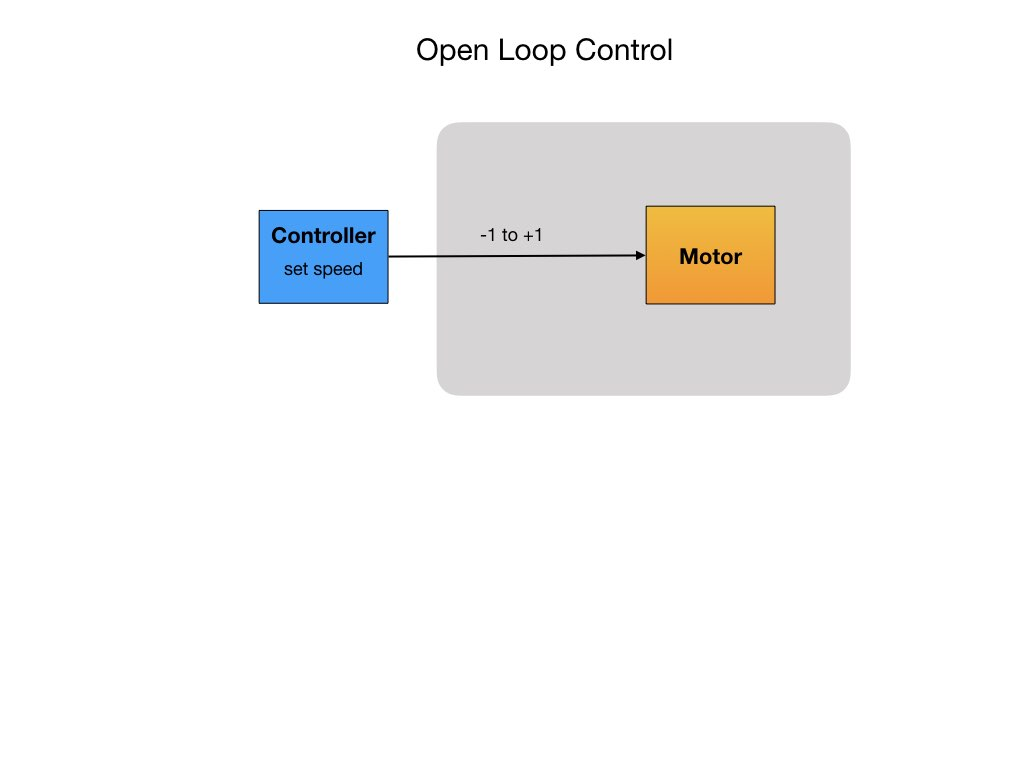
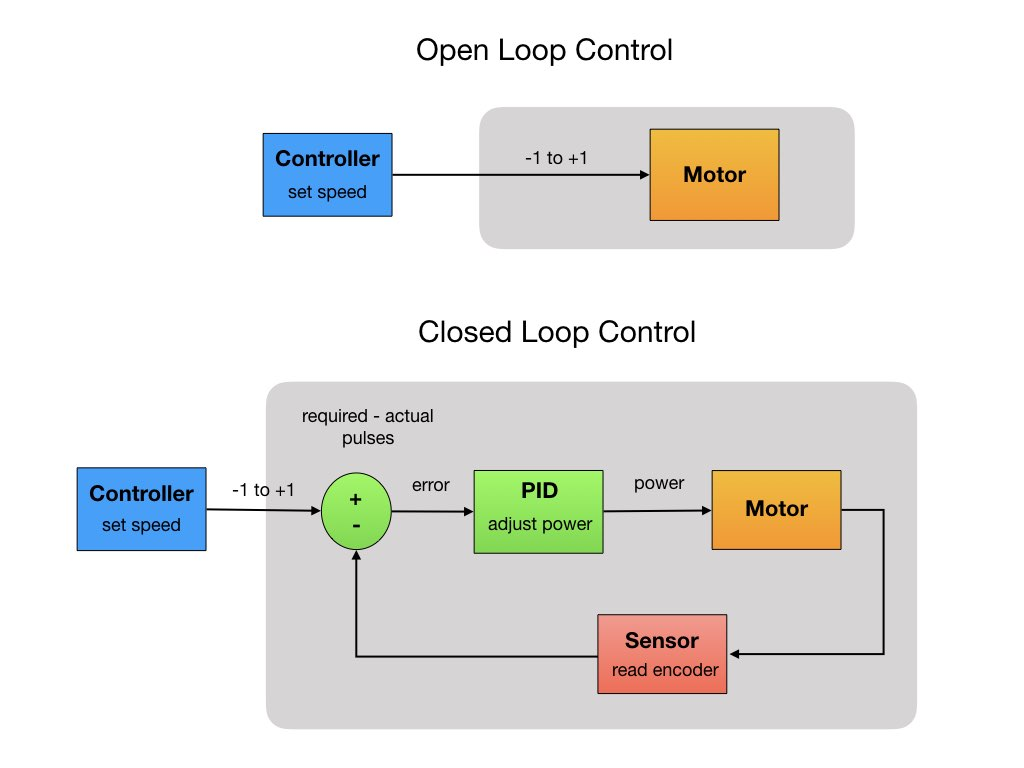
Worked on lesson 4

diff --git a/Tools/code4.md b/Tools/code4.md
@@ -1,17 +1,25 @@
 # <a name="code"></a>Lesson 4 - Open Loop Velocity Control
-Up to this point we have been using PWM signals to directly power the motors. To simplify our motion control commands it would be better to send a signal between -1 and +1, where -1 is full speed backwards and +1 is full speed forward. This gives us a smooth transition of speed values which are easy to understand and hides the messy details of the PWM signals. 
+Up to this point we have been using PWM signals to directly power the motors. To simplify our motion control commands it would be better to send a velocity value between -1 and +1, where -1 is full speed backwards and +1 is full speed forward. This gives us a smooth transition of velocity values which are easy to understand and hides the messy details of the PWM signals. 
 
-Another lesson objective is to begin to understand <i>Control Systems Theory</i>.  Control systems are used extensively in robotics.
+Another lesson objective is to begin to understand <i>Control Systems</i>.  Control systems are used extensively in robotics.
 
-## Open Loop Control
+## Open Loop vs Closed Loop Control
+There are two main control system mechanisms, <i>Open Loop</i> and <i>Closed Loop</i>.  For an open loop system you just set an input control signal and let it go. There's no adjustment along the way. The system doesn't self correct itself.  The only way to change the signal is through manual input. This is the system that we've been using so far to control our robot. We set a PWM value for the motor and that same PWM value remains until the system times out.  We'll continue to use the open loop system in this lesson.  
 
-Talk about open loop..
+An <i>Open Loop</i> verses <i>Closed Loop</i> system is shown below.  The closed loop system takes input from it's sensors and uses that information to adjust the control signal to the motor.  In the next lesson we'll switch to a closed loop system. 
 
-Open loop diagram...
+![Open Loop Control](../images/FRCRobot/FRCRobot.010.jpeg)
 
-## Wheel Speed Proportional Values
+## Wheel Velocity Proportional Values
+So instead of sending a PWM signal to the motors we just want to send a value between -1 (backward) to +1 (forward). From the perspective of the controller that will look like this:
 
-wheel speeds need to float values...
+![Lesson 4 Controller](../images/FRCRobot/FRCRobot.012.jpeg)
+
+As you can see, we no longer need the <i>Backward</i> buttons since we can set the speed to a negative value. In fact, we need fewer and fewer buttons for each lesson.  Why is this important?  We have reduced our control input to a single velocity command <i>Move</i>, and we can get the robot to go wherever we want by feeding it a continuous stream of these velocity command values for each wheel. 
+
+The <i>DCMotor</i> model is very similar to that of lesson 3.  The difference is that we pass in the velocity value instead of the PWM. The motor still wants PWM signals so the velocity value has to be converted to a PWM value, this is done in the `setSpeed()` function. There is one thing that needs to be taken into consideration while doing the conversion however, and that is explained in the next section on drivetrain characterization.
+
+![DCMotor](../images/FRCRobot/FRCRobot.015.jpeg)
 
 ## Drivetrain Charaterization
 

diff --git a/Tools/code3.md b/Tools/code3.md
@@ -18,8 +18,6 @@ The first parameter is the GPIO pin that the will detect the interrupt.  This is
 
 The main thing to consider when coding an ISR is to keep the routine short.  The routine code block must complete before the next interrupt fires.  This means that you cannot have a `delay()` in the routine since that will most likely still be active when the next interrupt fires.  Another piece of code that takes a long time to run is a serial print.  Serial prints need to write out to the terminal which takes a long time.    
 
-A detailed explaination of interrupts can be found on [Nick Gammons] site (http://gammon.com.au/interrupts)
-
 The following diagram of the <i>Encoder</i> class shows the encoder IR sensor attached via the GPIO pin to the ISR.  The ISR calls the code block `encoderFired()` to be executed. This code block increments or decrements the `pulses` variable.  The `pulses` variable is declared as `volatile` since it is referenced outside of the ISR and may be changed during the course of an interrupt. This tells the compiler that such variables might change at any time, and thus the compiler must reload the variable whenever you reference it, rather than relying upon a copy it might have in a processor register.
 
 Interrupt service routines must be declared to be executed in instruction RAM (IRAM). The execution of a function called by an interrupt is blocking, meaning that it is necessary to wait for the end of its execution before any other code can continue.  Usually the code is executed directly in the flash memory of the microcontroller. It is possible to move the function to the internal RAM of the ESP32 which is much faster. This is done by placing the `IRAM_ATTR` attribute just before the name of the function like so:
@@ -48,6 +46,10 @@ And finally start the timer running, telling it how long to run for. In our case
 Notice the word <i>periodic</i> in the timer setup.  This tells us that the timer will reset itself to zero after the timeout period and start counting up to the timeout period again. Therefore, our ISR will execute every 50 micro seconds.
 
 ![DCMotor](../images/FRCRobot/FRCRobot.008.jpeg)
+
+## Other References
+A detailed explaination of interrupts for the Arduino can be found on [Nick Gammons](http://gammon.com.au/interrupts) site.
+
 
 <h3><span style="float:left">
 <a href="code2">Previous</a></span>
